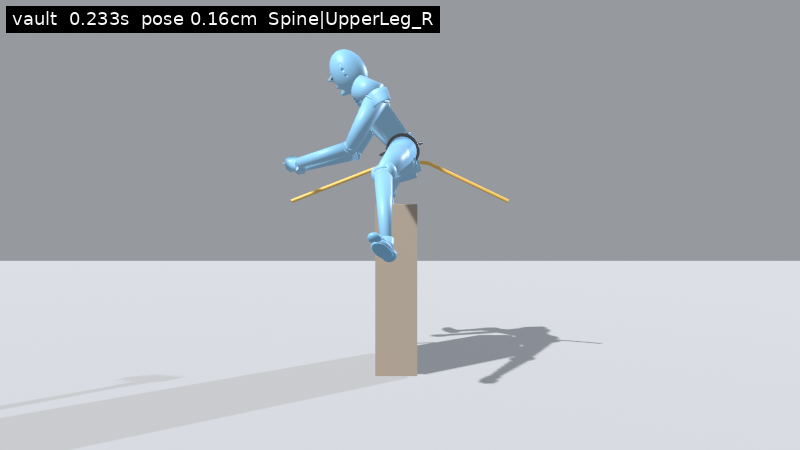
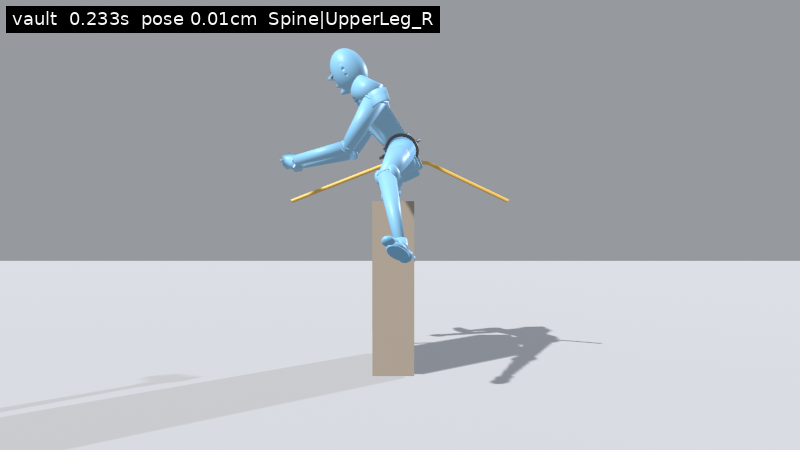
Sit the vault and the roll on the hips.
The hip takes the fold on both clips. The spine stays a little rounded, the vault hands stay on the box, and the roll keeps its tuck. Hip and knee hinge depth stays rig overlap.

diff --git a/Assets/Scripts/Art/HandoffFeel.cs b/Assets/Scripts/Art/HandoffFeel.cs
@@ -53,6 +53,91 @@ namespace Tag.Art
             return Raised((1f - u) / 0.5f);
         }
 
+        /// <summary>
+        /// Degrees added on the played roll. <see cref="RollShot"/> does not read this.
+        /// The hip takes the fold. The spine stays a little rounded, not flat.
+        /// The thighs swing out to their own sides. The chin stays in.
+        /// Hip-into-thigh and shin-into-thigh stay on the rig.
+        /// </summary>
+        public struct RollAdd
+        {
+            public float YawL, YawR;
+            public float ArmL, ArmR, ArmYawL, ArmYawR;
+            public float ElbL, ElbR;
+            public float Hip, Spine, Head;
+        }
+
+        struct RollKey
+        {
+            public float U;
+            public float YawL, YawR, ArmL, ArmR, AyL, AyR, ElbL, ElbR, Hip, Spine, Head;
+        }
+
+        static readonly RollKey[] ClearKeys =
+        {
+            // u is the squash fraction. Same samples the pose dump writes.
+            RollKeyAt(0.000000f, -40f, 40f, -28f, -4f, 0f, 0f, -8f, 0f, 4f, -6f, 10f),
+            RollKeyAt(0.103333f, -39f, 39f, -23f, -2f, 0f, 0f, -4f, 0f, 6f, -7f, 9f),
+            RollKeyAt(0.206667f, -38f, 38f, -18f, 0f, 0f, 0f, 0f, 0f, 8f, -10f, 8f),
+            RollKeyAt(0.310000f, -36f, 34f, -28f, -18f, 0f, 0f, 0f, 0f, 12f, -14f, 6f),
+            RollKeyAt(0.413333f, -36f, 38f, 0f, 0f, 0f, 0f, 0f, 0f, 16f, -17f, 4f),
+            RollKeyAt(0.516667f, -36f, 40f, 0f, 0f, 0f, 0f, 0f, 0f, 16f, -18f, 4f),
+            RollKeyAt(0.620000f, -36f, 34f, 0f, -16f, 0f, 18f, 0f, -28f, 12f, -16f, 2f),
+            RollKeyAt(0.723333f, -36f, 36f, 0f, -24f, 0f, 8f, 0f, -20f, 10f, -10f, 0f),
+            RollKeyAt(0.826667f, -26f, 30f, 0f, 0f, 0f, 0f, 0f, 0f, 10f, -6f, 0f),
+            RollKeyAt(0.930000f, -24f, 26f, 0f, 0f, 0f, 0f, 0f, 0f, 10f, -1f, 0f),
+            RollKeyAt(1.000000f, -14f, 16f, 0f, 0f, 0f, 0f, 0f, 0f, 8f, 0f, 0f),
+        };
+
+        static RollKey RollKeyAt(float u, float yawL, float yawR, float armL, float armR, float ayL, float ayR, float elbL, float elbR, float hip, float spine, float head)
+        {
+            return new RollKey
+            {
+                U = u,
+                YawL = yawL,
+                YawR = yawR,
+                ArmL = armL,
+                ArmR = armR,
+                AyL = ayL,
+                AyR = ayR,
+                ElbL = elbL,
+                ElbR = elbR,
+                Hip = hip,
+                Spine = spine,
+                Head = head,
+            };
+        }
+
+        /// <summary>Played joint add for this roll fraction. Not the printed shot.</summary>
+        public static RollAdd RollClear(float u)
+        {
+            if (u < 0f) u = 0f;
+            if (u > 1f) u = 1f;
+            int i = 0;
+            while (i < ClearKeys.Length - 2 && u > ClearKeys[i + 1].U)
+                i++;
+            RollKey a = ClearKeys[i];
+            RollKey b = ClearKeys[i + 1];
+            float span = b.U - a.U;
+            float t = span > 0.0001f ? (u - a.U) / span : 1f;
+            if (t < 0f) t = 0f;
+            if (t > 1f) t = 1f;
+            return new RollAdd
+            {
+                YawL = Lerp(a.YawL, b.YawL, t),
+                YawR = Lerp(a.YawR, b.YawR, t),
+                ArmL = Lerp(a.ArmL, b.ArmL, t),
+                ArmR = Lerp(a.ArmR, b.ArmR, t),
+                ArmYawL = Lerp(a.AyL, b.AyL, t),
+                ArmYawR = Lerp(a.AyR, b.AyR, t),
+                ElbL = Lerp(a.ElbL, b.ElbL, t),
+                ElbR = Lerp(a.ElbR, b.ElbR, t),
+                Hip = Lerp(a.Hip, b.Hip, t),
+                Spine = Lerp(a.Spine, b.Spine, t),
+                Head = Lerp(a.Head, b.Head, t),
+            };
+        }
+
         /// <summary>Single arc across the push-off. 0 is the wall run. 1 is the balance tuck.</summary>
         public static float WallOpen(float age)
         {

diff --git a/Assets/Scripts/Art/DummyLocomotor.cs b/Assets/Scripts/Art/DummyLocomotor.cs
@@ -16921,17 +16921,18 @@ namespace Tag.Art
             if (_landRoll)
             {
                 float w = HandoffFeel.RollWeight(u);
-                _ulLT = Quaternion.Slerp(_ulLT, _ulL0 * Quaternion.Euler(HandoffFeel.RollThigh, 0f, 0f), w);
-                _ulRT = Quaternion.Slerp(_ulRT, _ulR0 * Quaternion.Euler(HandoffFeel.RollThigh - 18f, 0f, 0f), w);
+                HandoffFeel.RollAdd add = HandoffFeel.RollClear(u);
+                _ulLT = Quaternion.Slerp(_ulLT * Quaternion.Euler(0f, add.YawL, 0f), _ulL0 * Quaternion.Euler(HandoffFeel.RollThigh, add.YawL, 0f), w);
+                _ulRT = Quaternion.Slerp(_ulRT * Quaternion.Euler(0f, add.YawR, 0f), _ulR0 * Quaternion.Euler(HandoffFeel.RollThigh - 18f, add.YawR, 0f), w);
                 _llLT = Quaternion.Slerp(_llLT, _llL0 * Quaternion.Euler(HandoffFeel.RollKnee, 0f, 0f), w);
                 _llRT = Quaternion.Slerp(_llRT, _llR0 * Quaternion.Euler(HandoffFeel.RollKnee + 20f, 0f, 0f), w);
-                _hipsT = Quaternion.Slerp(_hipsT, _hips0 * Quaternion.Euler(HandoffFeel.RollHip, 0f, 0f), w);
-                _spineT = Quaternion.Slerp(_spineT, _spine0 * Quaternion.Euler(HandoffFeel.RollSpine, 0f, 22f * w), w);
-                _headT = Quaternion.Slerp(_headT, _head0 * Quaternion.Euler(HandoffFeel.RollHead, 0f, 0f), w);
-                _uaLT = Quaternion.Slerp(_uaLT, _uaL0 * Quaternion.Euler(HandoffFeel.RollArm, 18f, armZ), w);
-                _uaRT = Quaternion.Slerp(_uaRT, _uaR0 * Quaternion.Euler(HandoffFeel.RollArm, -18f, -armZ), w);
-                _laLT = Quaternion.Slerp(_laLT, _laL0 * Quaternion.Euler(HandoffFeel.RollElbow, 0f, 0f), w);
-                _laRT = Quaternion.Slerp(_laRT, _laR0 * Quaternion.Euler(HandoffFeel.RollElbow + 16f, 0f, 0f), w);
+                _hipsT = Quaternion.Slerp(_hipsT * Quaternion.Euler(add.Hip, 0f, 0f), _hips0 * Quaternion.Euler(HandoffFeel.RollHip + add.Hip, 0f, 0f), w);
+                _spineT = Quaternion.Slerp(_spineT * Quaternion.Euler(add.Spine, 0f, 0f), _spine0 * Quaternion.Euler(HandoffFeel.RollSpine + add.Spine, 0f, 22f * w), w);
+                _headT = Quaternion.Slerp(_headT * Quaternion.Euler(add.Head, 0f, 0f), _head0 * Quaternion.Euler(HandoffFeel.RollHead + add.Head, 0f, 0f), w);
+                _uaLT = Quaternion.Slerp(_uaLT * Quaternion.Euler(add.ArmL, add.ArmYawL, 0f), _uaL0 * Quaternion.Euler(HandoffFeel.RollArm + add.ArmL, 18f + add.ArmYawL, armZ), w);
+                _uaRT = Quaternion.Slerp(_uaRT * Quaternion.Euler(add.ArmR, add.ArmYawR, 0f), _uaR0 * Quaternion.Euler(HandoffFeel.RollArm + add.ArmR, -18f + add.ArmYawR, -armZ), w);
+                _laLT = Quaternion.Slerp(_laLT * Quaternion.Euler(add.ElbL, 0f, 0f), _laL0 * Quaternion.Euler(HandoffFeel.RollElbow + add.ElbL, 0f, 0f), w);
+                _laRT = Quaternion.Slerp(_laRT * Quaternion.Euler(add.ElbR, 0f, 0f), _laR0 * Quaternion.Euler(HandoffFeel.RollElbow + 16f + add.ElbR, 0f, 0f), w);
                 if (_landSquash <= 0.02f) _landRoll = false;
                 return;
             }

diff --git a/Assets/Scripts/Art/MantlePose.cs b/Assets/Scripts/Art/MantlePose.cs
@@ -80,7 +80,8 @@ namespace Tag.Art
         /// knee, over, and land, which is what the handoff proof measures.
         /// The arms stay an uncrossed plant on the obstacle. Both legs swing
         /// out to their own sides and stay there until the hips have passed,
-        /// then come home. The spine keeps its forward lean. Not a root lift.
+        /// then come home. The hip takes the pitch and the spine stays near
+        /// eight degrees. Not a root lift.
         /// </summary>
         struct VaultKey
         {
@@ -203,12 +204,12 @@ namespace Tag.Art
         {
             return new VaultKey[]
             {
-                Key(0.00f, 24f, 14f, -36f, -22f, -10f, 8f, -58f, -58f, -18f, 18f, -46f, -46f, 14f, 20f, -10f),
-                Key(0.16f, 68f, 52f, -42f, -38f, -58f, 48f, -58f, -58f, -18f, 18f, -46f, -46f, 16f, 20f, -8f),
-                Key(0.36f, 82f, 70f, -40f, -44f, -78f, 70f, -56f, -56f, -16f, 16f, -42f, -42f, 18f, 20f, -6f),
-                Key(0.64f, 74f, 64f, -40f, -44f, -72f, 66f, -54f, -54f, -16f, 16f, -40f, -40f, 16f, 18f, -4f),
-                Key(0.82f, 36f, 32f, -38f, -36f, -10f, 10f, -48f, -48f, -16f, 16f, -38f, -38f, 14f, 16f, -4f),
-                Key(1.00f, 24f, 22f, -40f, -36f, 0f, 4f, -46f, -46f, -16f, 16f, -36f, -36f, 12f, 16f, -4f),
+                Key(0.00f, 46f, 40f, -42f, -32f, -10f, 8f, -58f, -58f, -18f, 18f, -46f, -46f, 24f, 8f, -10f),
+                Key(0.16f, 72f, 58f, -48f, -42f, -58f, 48f, -58f, -58f, -18f, 18f, -46f, -46f, 26f, 8f, -8f),
+                Key(0.36f, 82f, 70f, -40f, -44f, -78f, 70f, -56f, -56f, -16f, 16f, -42f, -42f, 28f, 8f, -6f),
+                Key(0.64f, 74f, 64f, -40f, -44f, -72f, 66f, -54f, -54f, -16f, 16f, -40f, -40f, 24f, 8f, -4f),
+                Key(0.82f, 48f, 42f, -42f, -38f, -10f, 10f, -48f, -48f, -16f, 16f, -38f, -38f, 22f, 8f, -4f),
+                Key(1.00f, 50f, 44f, -46f, -40f, -16f, 16f, -46f, -46f, -16f, 16f, -36f, -36f, 24f, 8f, -4f),
             };
         }
 

diff --git a/Tools/StrafeJumpSim/PoseKeyDump.cs b/Tools/StrafeJumpSim/PoseKeyDump.cs
@@ -142,13 +142,14 @@ static class PoseKeyDump
             float hip = Mathf.Lerp(Mathf.Lerp(LandPose.HardHip, HandoffFeel.RunHip, u), HandoffFeel.RollHip, weight);
             float spine = Mathf.Lerp(Mathf.Lerp(LandPose.HardSpine, HandoffFeel.RunSpine, u), HandoffFeel.RollSpine, weight);
             float head = Mathf.Lerp(LandPose.HardHead, HandoffFeel.RollHead, weight);
-            Emit(w, c, "roll", t, thL, thR, knL, knR, 0f, 0f,
-                Mathf.Lerp(-36f, HandoffFeel.RollArm, weight),
-                Mathf.Lerp(28f, HandoffFeel.RollArm, weight),
-                0f, 0f, 0f, 0f,
-                Mathf.Lerp(-18f, HandoffFeel.RollElbow, weight),
-                Mathf.Lerp(-24f, HandoffFeel.RollElbow + 16f, weight),
-                hip, spine, head, 22f * weight, 0f, 0f, 0f, 0f, 0f);
+            HandoffFeel.RollAdd add = HandoffFeel.RollClear(u);
+            Emit(w, c, "roll", t, thL, thR, knL, knR, add.YawL, add.YawR,
+                Mathf.Lerp(-36f, HandoffFeel.RollArm, weight) + add.ArmL,
+                Mathf.Lerp(28f, HandoffFeel.RollArm, weight) + add.ArmR,
+                add.ArmYawL, add.ArmYawR, 0f, 0f,
+                Mathf.Lerp(-18f, HandoffFeel.RollElbow, weight) + add.ElbL,
+                Mathf.Lerp(-24f, HandoffFeel.RollElbow + 16f, weight) + add.ElbR,
+                hip + add.Hip, spine + add.Spine, head + add.Head, 22f * weight, 0f, 0f, 0f, 0f, 0f);
             if (t >= dur) break;
         }
     }

diff --git a/Docs/SmoothMotionAudit.md b/Docs/SmoothMotionAudit.md
@@ -581,9 +581,15 @@ The tag clip's chest into the right upper arm was 8.63 cm. The played arm path n
 
 The line above is the pass 21 scan. The slide was the deepest fail on it: the right foot was 12.91 cm into the ground at t=0.067, and the held plant had the right heel at -4.26 cm. Pass 22 re-keyed that clip with joint angles only. The printed drop stays 0.525, and the hip mesh at the hold is still 37.15 cm. The lead thigh comes down and rolls off the trail thigh, the trail knee folds before the hips finish dropping, and the lead arm yaws off the chest. At the hold the lead sole is at 0.00 cm and the trail sole is 0.22 cm. On the 13 slide frames the deepest pose hit is the spine into the left thigh at 0.43 cm at t=0, and the world depth is 0, so the slide clip does not fail. The before/after at the old worst frame is `Docs/SmoothStills/pass22/slide-before.png` and `slide-after.png`. The held pose is `slide-hold.png`.
 
-The vault was the next fail: the left upper arm was 7.39 cm into the left thigh at t=0.233. Pass 23 re-keyed the played curve with joint angles only. The printed plant, knee, over, and land stay the constants, and the mantle window stays 0.40 s. The arms stay an uncrossed plant. Both legs swing out to their own sides and stay there until the hips have passed the obstacle, then come home. The spine stays leaned, between 16 and 20 degrees, rather than folding flat. On the 13 vault frames the deepest pose hit is the spine into the left thigh at 0.43 cm at t=0.300, and the world depth is 0. At the plant both hands sit 0.2 cm on the box top and are not inside it. The before/after is the same camera at t=0.233: the old pose puts the left hand 12.62 cm into the box, and the new pose is 0.16 cm, spine into the right thigh. The six-frame side sheet is the whole vault with the box and the hip line. Stills: `Docs/SmoothStills/pass23/vault-before.png`, `vault-after.png`, and `vault-sheet.png`.
+The vault was the next fail: the left upper arm was 7.39 cm into the left thigh at t=0.233. Pass 23 re-keyed the played curve with joint angles only. The printed plant, knee, over, and land stay the constants, and the mantle window stays 0.40 s. The arms stay an uncrossed plant. Both legs swing out to their own sides and stay there until the hips have passed the obstacle, then come home. The hip takes the pitch (22 to 28 degrees) and the spine stays near 8 degrees, so the hinge stays at the hip. On the 13 vault frames the deepest pose hit is the spine into a thigh at 0.42 cm, and the world depth is 0. At the plant both hands sit 0.2 cm on the box top and are not inside it. The pelvis sits 8.2 cm behind the support foot at the plant and 9.2 cm behind it on the landing. Hinge ratio is at least 2.77. The side-swing frames, while the feet are off the box, sit the other way (pelvisBack down to -6.2 cm at t=0.167) because those feet are not the plant. Hip-into-thigh on that clip is rigJoint 7.68 cm and shin-into-thigh is rigJoint 2.13 cm. The before and after use the same camera at t=0.233. On that path the old pose puts the left hand 12.59 cm into the box, and the new pose is 0.01 cm, spine into the right thigh. The plant pair uses that same camera with a vertical through the support foot and a dot on the pelvis. The six-frame side sheet is the whole vault with the box and the hip line. Stills: `Docs/SmoothStills/pass23/vault-before.png`, `vault-after.png`, `vault-sheet.png`, `vault-hip-before.png`, and `vault-hip-after.png`.
 
-Ten clips from that pass 21 scan are still open. Pose cm: roll 5.60 forearm into thigh, zip 5.52 chest into upper arm, punch 5.09 chest into upper arm, wall 4.97 chest into upper arm, pad 4.28 spine into thigh, climb 3.74 spine into thigh, idle 1.80 chest into upper arm, stagger 1.08 foot into the ground, loco 0.97 chest into upper arm, sprint 0.97 chest into upper arm.
+The roll was the next fail: the left forearm was 5.60 cm into the left thigh at t=0.167, and the spine was 4.35 cm into both thighs at the tuck (t=0). Pass 23 re-keyed the played roll with joint adds. The printed roll share, speed, thigh, knee, hip, spine, head, arm, and elbow stay the constants, and RollShot does not read the adds. The hip takes the fold (played hip 50 down to 14) and the spine stays rounded between 8 and 22 degrees, so it is not flattened to rest. The chin stays in. The thighs swing out to their own sides. On the 11 roll frames the deepest pose hit is the spine into the left thigh at 0.43 cm, and the world depth is 0. Hinge ratio is at least 1.75. The feet stay off the floor through the tuck (sole 10 cm and up), so pelvisBack on those frames is the swing, down to -52.3 cm at t=0.167, not a plant. Hip-into-thigh on that clip is rigJoint 7.93 cm and shin-into-thigh is rigJoint 3.86 cm. The before and after use the same camera at t=0.167. The plant pair at t=0 uses that camera with a vertical through the support foot and a dot on the pelvis. The six-frame side sheet is the whole roll with the floor and the hip line. Stills: `Docs/SmoothStills/pass23/roll-before.png`, `roll-after.png`, `roll-sheet.png`, `roll-hip-before.png`, and `roll-hip-after.png`.
+
+`hip-sit clips=2 loadedFrames=24 pelvisBackMin=-52.3 cm hingeMin=1.75 fails=0`
+
+That line is the vault and the roll, the two clips this pass re-keyed. The vault plant is 8.2 cm behind the support foot and the landing is 9.2 cm, both with the hinge at the hip. The roll has no foot plant. Its hinge stays at or above 1.75, and the negative pelvisBack is the airborne swing. Hip and knee hinge depth is rigJoint on both clips.
+
+Nine clips from that pass 21 scan are still open. Pose cm: zip 5.52 chest into upper arm, punch 5.09 chest into upper arm, wall 4.97 chest into upper arm, pad 4.28 spine into thigh, climb 3.74 spine into thigh, idle 1.80 chest into upper arm, stagger 1.08 foot into the ground, loco 0.97 chest into upper arm, sprint 0.97 chest into upper arm.
 
 Stills, mid-grey floor with key and rim light: `Docs/SmoothStills/pass21/rope-before-side.png`, `rope-before-threequarter.png`, `rope-after-side.png`, `rope-after-threequarter.png`, and `overlap.png` for the slide frame. The pass 20 rope pair is the earlier upright hang.
 

diff --git a/Docs/WhatsNew.md b/Docs/WhatsNew.md
@@ -13,7 +13,8 @@ This map-lane branch is the converged test tip. Pressing Play in `Assets/Scenes/
 - A punch moves the right arm on the mannequin. Reach stays 1.55. Try it: Practice, dummy on, and punch.
 - A vault keeps the horizontal speed you had when you left the ground. It does not add a long launch. Slide is unchanged. Try it: sprint at a rail you can vault and see that you are not thrown across the park.
 - A slide uses the same drop and the same speed. The lead leg reaches along the floor with the sole on it, and the trail leg folds under instead of through the floor. Try it: sprint, then slide, and watch both feet stay on the ground.
-- A vault uses the same timing. Both hands plant on the obstacle, the legs swing out to the sides as the hips pass over, and the arms stay on that plant. Try it: sprint at a rail and vault.
+- A vault uses the same timing. Both hands plant on the obstacle, the hips sit back over the feet, the legs swing out to the sides as the hips pass over, and the arms stay on that plant. Try it: sprint at a rail and vault.
+- A landing roll tucks from the hips. The chin stays in, the back stays a little rounded, and the legs swing out to the sides. Try it: sprint off a drop high enough to roll.
 
 ## Speed retune
 
